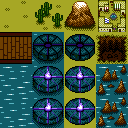
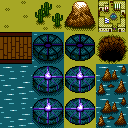
Improved pit art, added more docs to void level, fixed bug with line of sight

Changed region(s): [[0.75, 0.25, 1.0, 0.5]]

diff --git a/src/components/die.vue b/src/components/die.vue
@@ -43,7 +43,11 @@ export default {
 		window.addEventListener('keyup', this.handleKeyPress);
   },
   mounted() {
+  	//set the music volume
   	this.$refs['music'].volume = 0; //0.25;
+  	//rotate the cube to the player face
+  	store.player.location = store.currentLevel.entrance;
+  	this.resetDieRotation();
   },
   data() {
   	return {
@@ -432,12 +436,12 @@ export default {
 				passable = true;
 
 				for (let otherEnemy of store.currentLevel.enemies) {
-					if (this.isEntityOnTile(otherEnemy, targetTile) && otherEnemy.behavior != 'projectile') {
+					if (this.isEntityOnTile(otherEnemy, targetTile) && otherEnemy.behavior !== 'projectile') {
 						passable = false;
 					}
 				}
 				for (let pickup of store.currentLevel.pickups) {
-					if (this.isEntityOnTile(pickup, targetTile) && pickup.type != 'message') {
+					if (this.isEntityOnTile(pickup, targetTile) && pickup.type !== 'message') {
 						//fix for if player just got onto a boat
 						if (targetTile.col !== store.player.location.col) {
 							passable = false;
@@ -796,12 +800,22 @@ export default {
 						this.showDialog(pickup.content, false, true);
 
 					//sword that are on pedestals get replaced by empty pedestals
-					} else if (pickup.type == 'sword' && pickup.status != 'hidden') {
+					//generic pickups open their chests
+					} else if (pickup.type !== 'boat' && pickup.status != 'hidden') {
 
-						if (pickup.status != 'taken') { 
+						//consumables are used right away
+						if (pickup.type === 'potion' && pickup.status !== 'taken') {
+							if (store.player.hp < 5) {
+								pickup.status = 'taken';
+								this.healPlayer(2, pickup.type); //dialog will be shown by healPlayer
+							} else {
+								this.showDialog('<p>You found a ' + pickup.type.replace('-',' ').toUpperCase() + ' but decided to leave it for now. You might need it later if you hurt yourself!</p>', 'pickup');
+							}
+						//take the thing
+						} else if (pickup.status != 'taken') { 
 							store.player.items.push(pickup.type);
 							pickup.status = 'taken';
-							this.showDialog('<p>You found a ' + pickup.type.toUpperCase() + '!</p>', 'pickup');
+							this.showDialog('<p>You found a ' + pickup.type.replace('-',' ').toUpperCase() + '!</p>', 'pickup');
 						}
 
 					//all other pickups are added to inventory and removed from level
@@ -810,7 +824,7 @@ export default {
 						store.currentLevel.pickups.splice(i,1);
 
 						if (pickup.type !== 'boat') { 
-							this.showDialog('<p>You found a ' + pickup.type.toUpperCase() + '!</p>', 'pickup');
+							this.showDialog('<p>You found a ' + pickup.type.replace('-',' ').toUpperCase() + '!</p>', 'pickup');
 						}
 					}	
 				}
@@ -861,7 +875,7 @@ export default {
 							}
 						} else {
 							for (let i = enemy.location.col + 1; i <= store.player.location.col; i++) {
-								if (!this.isTilePassable({ 'face': enemy.location.face, 'row': enemy.location.row, 'col': i }, 'projectile')) {
+								if (!this.isTilePassable({ 'face': enemy.location.face, 'row': enemy.location.row, 'col': i }, 'lineOfSight')) {
 									shotBlocked = true;
 								}
 							}
@@ -965,6 +979,23 @@ export default {
 					}
 				}, this);
 	  	}
+		},
+
+		healPlayer(amount = 1, cause = 'potion') {
+			let message = '<p>';
+
+			store.player.hp += amount;
+
+			if (store.player.hp > 5) {
+				store.player.hp = 5;
+			}
+
+			if (cause === 'potion') {
+				message += 'You found a ' + cause.replace('-',' ').toUpperCase() + ' and took a swig. ';
+			}
+
+			message += 'You were healed ' + amount + ' HP!</p>';
+			this.showDialog(message, 'pickup');
 		},
 
 		//damage the player (cause is the enemy type, eg 'purple-slime')

diff --git a/src/data/levels/lut-gholein.js b/src/data/levels/lut-gholein.js
@@ -11,26 +11,32 @@ X water
 - horizontal bridge
 | vertical bridge
 W town
-
-PICKUPS
-type: (message,boat,debris,sword,potion)
-location: { 'face': 0, 'row': 0, 'col': 0 }
-container: (null,hidden,chest,stone)
-content: (html content, message type only)
-
-ENEMIES
-type: (purple-slime,blue-slime,sea-serpent)
-location: { 'face': 0, 'row': 0, 'col': 0 }
-direction: (left,right,up,down)
-behavior: (null,sentry,projectile)
 */
 
 const level = {
-  title: 'The Void',
-  tileset: 'snow',
-  entrance: { 'face': 0, 'row': 2, 'col': 3 },
-  pickups: [],
-  enemies: [],
+  title: 'The Pits of Lut Gholein',
+  tileset: 'desert',
+  entrance: { 'face': 5, 'row': 3, 'col': 3 },
+  pickups: [{
+    type: 'potion',
+    location: { 'face': 0, 'row': 4, 'col': 0 },
+    container: 'chest'
+  },{
+    type: 'old-key',
+    location: { 'face': 0, 'row': 5, 'col': 1 },
+    container: 'chest'
+  }],
+  enemies: [{
+    type: 'sea-serpent',
+    location: { 'face': 5, 'row': 4, 'col': 0 },
+    direction: 'right',
+    behavior: 'sentry'
+  },{
+    type: 'sea-serpent',
+    location: { 'face': 5, 'row': 4, 'col': 6 },
+    direction: 'left',
+    behavior: 'sentry'
+  }],
   faces: [
     [
       [' ',' ',' ',' ',' ',' ',' '],
@@ -79,12 +85,12 @@ const level = {
     ],
     [
       [' ',' ',' ',' ',' ',' ',' '],
-      [' ','●',' ',' ',' ','●',' '], // SIX
-      [' ',' ',' ',' ',' ',' ',' '], // ↑ left edge of 2
-      [' ','●',' ',' ',' ','●',' '], // → bottom edge of 3
-      [' ',' ',' ',' ',' ',' ',' '], // ↓ left edge of 5
-      [' ','●',' ',' ',' ','●',' '], // ← top edge of 4
-      [' ',' ',' ',' ',' ',' ',' ']
+      [' ','●','P','P','P','●',' '], // SIX
+      [' ','P','P','P','P','P',' '], // ↑ left edge of 2
+      [' ','●','P',' ','P','●',' '], // → bottom edge of 3
+      ['X','P','P',' ','P','P','X'], // ↓ left edge of 5
+      [' ','●','P',' ','P','●',' '], // ← top edge of 4
+      [' ',' ','P',' ','P',' ',' ']
     ]
   ]
 }

diff --git a/src/App.vue b/src/App.vue
@@ -5,9 +5,13 @@
       <p>MENU</p>
       <p>&nbsp;</p>
       <p>CONTROLS</p>
-      <p>Arrows to move</p>
-      <p>1-6 to view face</p>
-      <p>0 to view player</p>
+      <p>Use the arrows keys or WASD to move</p>
+      <p>Press 1-6 to view the corresponding face</p>
+      <p>Press 0 to reset the view</p>
+      <p>Press ESC to toggle the menu</p>
+      <p>&nbsp;</p>
+      <p>ABOUT</p>
+      <p>d6 was created by <a href="http://gregorterrill.com" target="_blank">Gregor Terrill</a>.</p>
     </div>
 
     <div v-if="store.windows.dialog.open" class="message message--dialog" v-html="store.windows.dialog.content"></div>
@@ -23,12 +27,14 @@
       <p>STATUS</p>
       <p :class="hpLevel">HP&nbsp;&nbsp;{{ store.player.hp }}/5</p>
       <p>XP&nbsp;&nbsp;{{ store.player.xp }}</p>
+      <!--
       <p>&nbsp;</p>
       <p>STATUS</p>
       <p>{{ store.player.status.charAt(0).toUpperCase() + store.player.status.slice(1) }}</p>
+      -->
       <p>&nbsp;</p>
       <p>INVENTORY</p>
-      <p v-for="item in store.player.items">{{ item.charAt(0).toUpperCase() + item.slice(1) }}</p>
+      <p v-for="item in store.player.items">{{ item.charAt(0).toUpperCase() + item.slice(1).replace('-',' ') }}</p>
     </div>
 
     <!--

diff --git a/src/components/tile.vue b/src/components/tile.vue
@@ -109,11 +109,16 @@ export default {
 			}
 
 			for (let pickup of store.currentLevel.pickups) {
-				if (pickup.location.face === this.face &&
+				if (pickup.type !== 'message' &&
+						pickup.location.face === this.face &&
 						pickup.location.row === this.row &&
 						pickup.location.col === this.col ) {
 
 					entity = 'pickup--' + pickup.type;
+
+					if (pickup.container) {
+						entity += ' pickup--' + pickup.container;
+					}
 
 					if (pickup.status) {
 						entity += ' pickup--' + pickup.status;
@@ -247,11 +252,11 @@ export default {
 }
 
 // PICKUP ENTITIES
-.pickup--generic {
-	background-position:0 -256px;
-	&.pickup--taken {	background-position:-64px -256px;	}
+.pickup--chest {
+	background-position:-128px -320px;
+	&.pickup--taken {	background-position:-192px -320px; }
 }
-.pickup--sword {
+.pickup--stone {
 	background-position:0 -320px;
 	&.pickup--taken {	background-position:-64px -320px;	}
 }
@@ -263,7 +268,6 @@ export default {
 	background-position:0 -448px;
 	animation:animateSpriteTwo 0.5s infinite;
 }
-
 .pickup--message,
 .pickup--hidden {
 	display:none;

diff --git a/src/data/store.js b/src/data/store.js
@@ -4,6 +4,7 @@ import daventry from './levels/daventry.js'
 import hylia from './levels/hylia.js'
 import balamb from './levels/balamb.js'
 import aveh from './levels/aveh.js'
+import lutgholein from './levels/lut-gholein.js'
 /*
 TUTORIAL
 The Lost Land of Tutoria
@@ -30,8 +31,15 @@ The Steppes of Tulga (Mount & Blade)
 The Ruins of Lordaeron (Warcraft)
 The Shores of Solstheim (Morrowind: Bloodmoon)
 */
-const levels = [thevoid,tutoria,daventry,hylia,balamb,aveh];
-
+const levels = [
+  thevoid,
+  tutoria,
+  daventry,
+  hylia,
+  balamb,
+  aveh,
+  lutgholein
+];
 
 const windows = {
   menu: {
@@ -44,7 +52,7 @@ const windows = {
 };
 
 const pips = 0;
-const currentLevelNum = 0;
+const currentLevelNum = 6;
 
 const currentLevel = {
   title: 'Hello World',

diff --git a/src/data/levels/hylia.js b/src/data/levels/hylia.js
@@ -5,9 +5,6 @@ const level = {
   pickups: [{
     type: 'boat',
     location: { 'face': 0, 'row': 5, 'col': 2 },
-  },{
-    type: 'debris',
-    location: { 'face': 0, 'row': 5, 'col': 3 },
   }],
   enemies: [{
     type: 'sea-serpent',

diff --git a/src/data/levels/tutoria.js b/src/data/levels/tutoria.js
@@ -28,7 +28,7 @@ const level = {
   },{
     type: 'sword',
     location: { 'face': 3, 'row': 5, 'col': 3 },
-    status: 'hidden'
+    container: 'hidden'
   },{
     type: 'message',
     location: { 'face': 5, 'row': 3, 'col': 3 },

diff --git a/src/data/levels/daventry.js b/src/data/levels/daventry.js
@@ -5,6 +5,7 @@ const level = {
   pickups: [{
     type: 'sword',
     location: { 'face': 5, 'row': 5, 'col': 2 },
+    container: 'stone',
   },{
     type: 'boat',
     location: { 'face': 4, 'row': 3, 'col': 5 },
